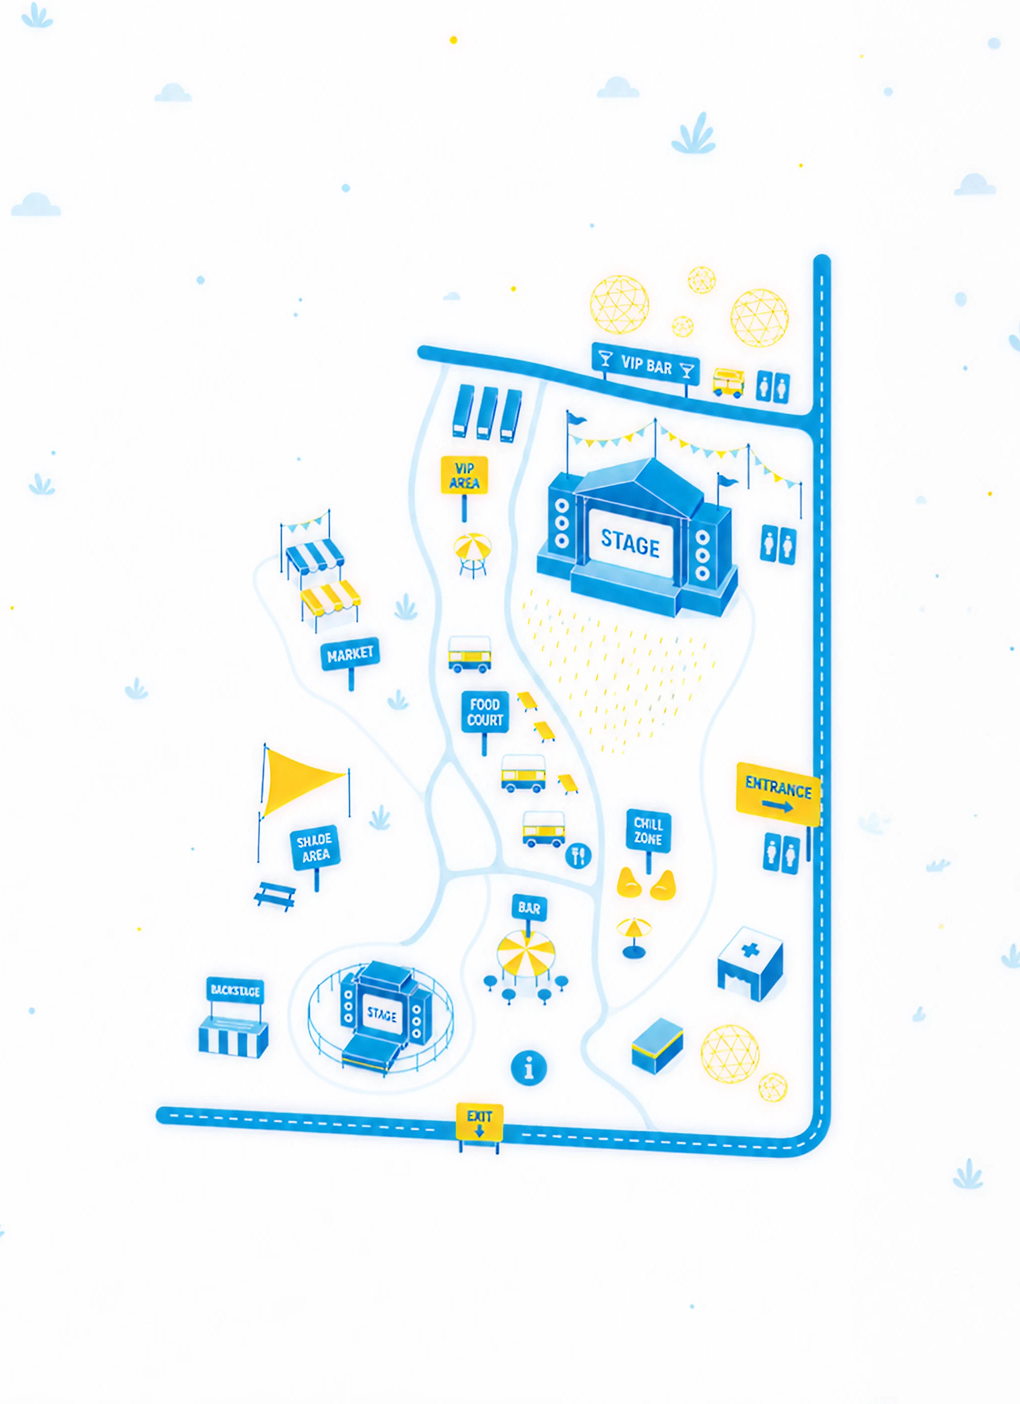
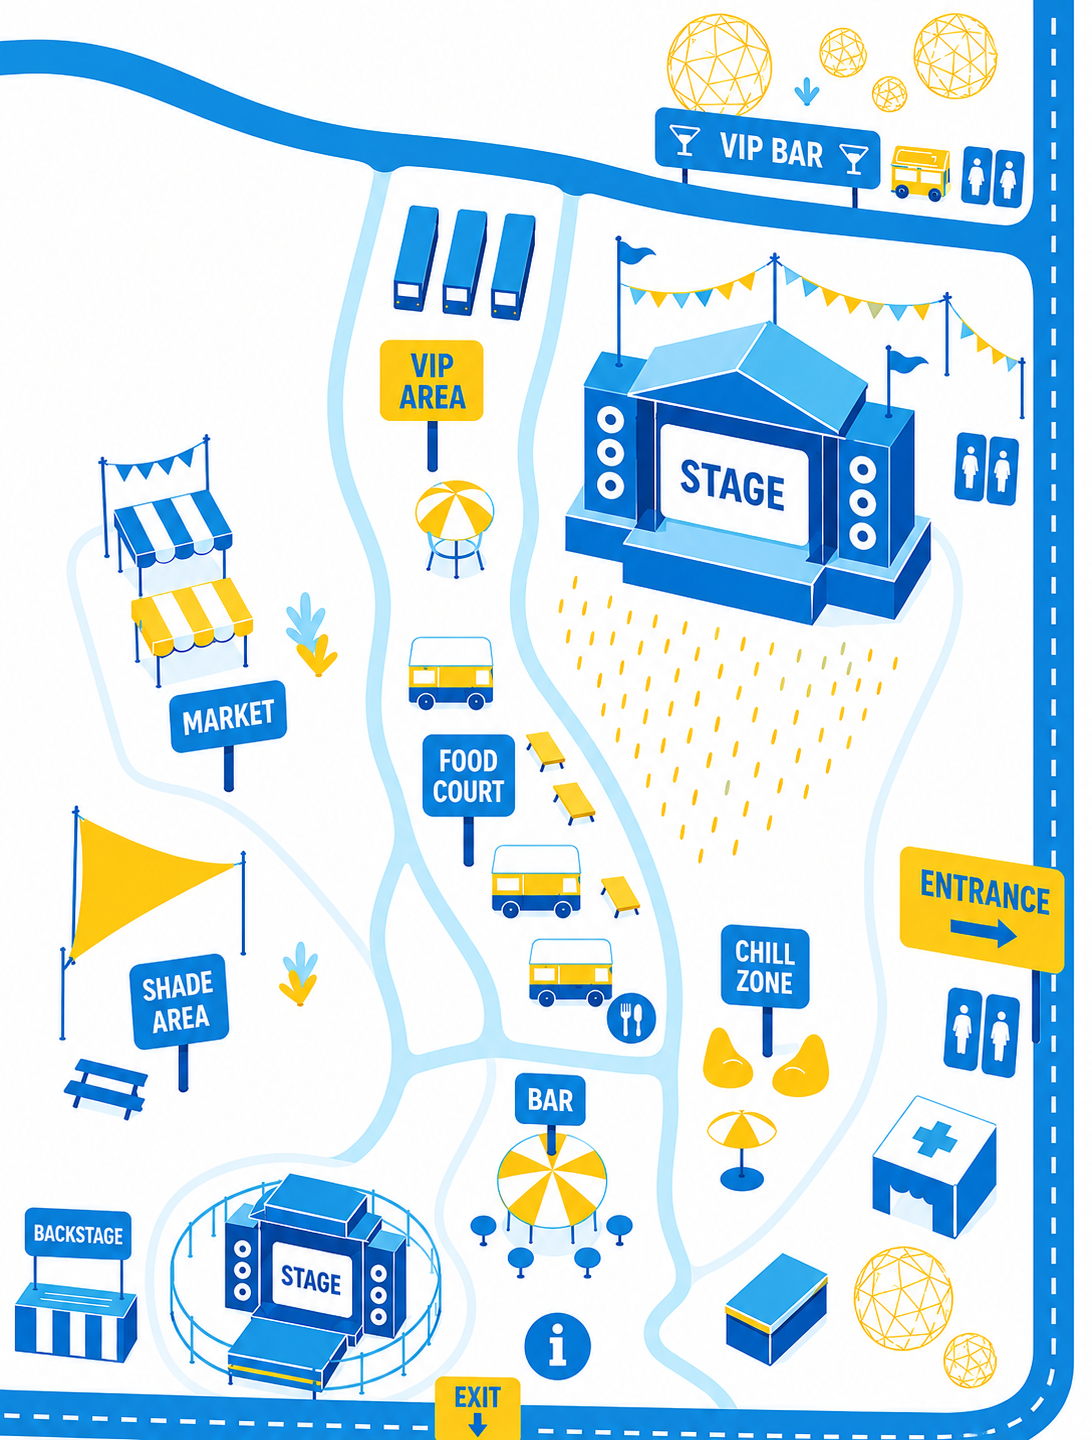
v11

diff --git a/src/Components/Header.jsx b/src/Components/Header.jsx
@@ -13,21 +13,31 @@ function Header({
 }) {
   const navigate = useNavigate();
 
+  const handleLeftClick = () => {
+    if (onLeftClick) {
+      onLeftClick();
+    } else {
+      navigate("/notifications");
+    }
+  };
+
+  const handleRightClick = () => {
+    if (onRightClick) {
+      onRightClick();
+    } else {
+      navigate("/profile");
+    }
+  };
+
   return (
     <header className={styles.header}>
-      <button
-        className={styles.iconButton}
-        onClick={onLeftClick}
-      >
+      <button className={styles.iconButton} onClick={handleLeftClick}>
         <img src={leftIcon} alt="" />
       </button>
 
       <img className={styles.logo} src={logo} alt="Blå Sol" />
 
-      <button
-        className={styles.iconButton}
-        onClick={onRightClick}
-      >
+      <button className={styles.iconButton} onClick={handleRightClick}>
         <img src={rightIcon} alt="" />
       </button>
     </header>
